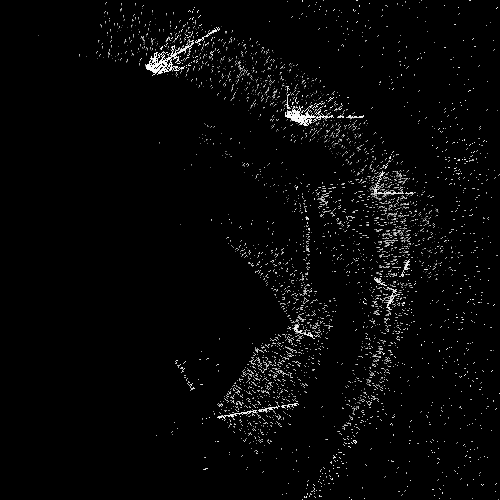
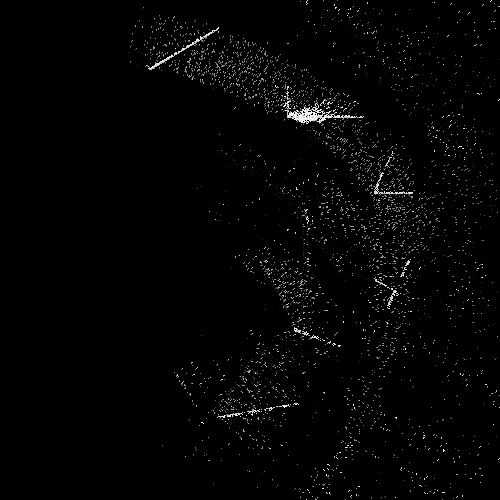
ultimo  commit

diff --git a/Proyecto2/Proyecto2_Ecolocalizacion.py b/Proyecto2/Proyecto2_Ecolocalizacion.py
@@ -120,8 +120,10 @@ def CalcularColor(Tiempo):
 	Recibe: Tiempo en ejecucion
 	Restricciones: No hay
 	'''
-	if (255-Tiempo*0.4)>0:
-		return int(255-Tiempo*0.4)
+	#if (255-Tiempo*0.4)>0:
+		#return int(255-Tiempo*0.4)
+	if (((-254/749)*Tiempo)+255)>0:
+		return int(((-254/300)*Tiempo)+255)
 	else:
 		return 0
 
